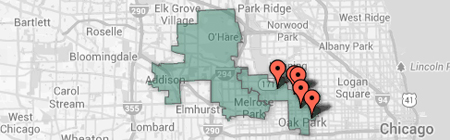
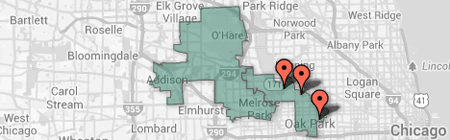
updated screenshots, added sharing links

diff --git a/public/javascripts/maps_lib.js b/public/javascripts/maps_lib.js
@@ -116,6 +116,8 @@ var MapsLib = {
     MapsLib.records2011.setMap(map);
     MapsLib.query(MapsLib.locationColumn, where2011, '', MapsLib.house2011_id, "MapsLib.setMapBounds");
 
+
+    whereCandidates = "seeking CONTAINS IGNORING CASE 'house' AND " + whereCandidates;
     MapsLib.recordsCandidates = new google.maps.FusionTablesLayer({
       query: {
         from:   MapsLib.candidates_id,

diff --git a/public/javascripts/fusiontips.js b/public/javascripts/fusiontips.js
@@ -250,7 +250,7 @@
         if (numRows > 0) {
           row = {};
           
-          html += "House District " + data.rows[0][0];
+          html += "House District " + data.rows[0][0] + '<br />Click to get started';
 
           for (i = 0; i < numCols; i++) {
             var cell = {
